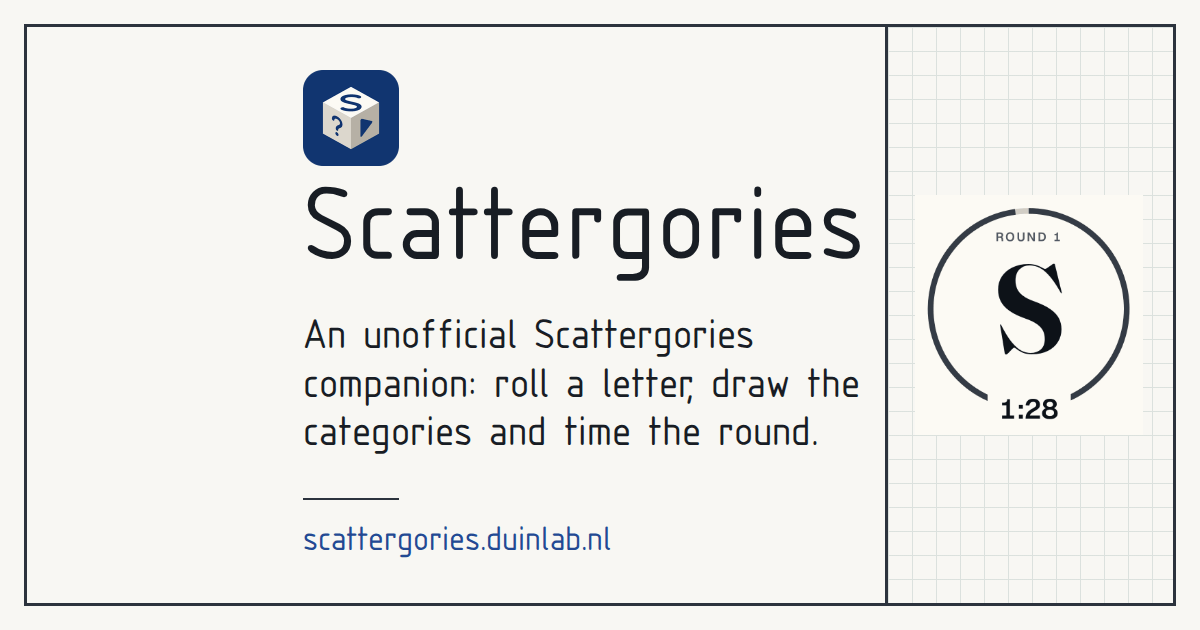
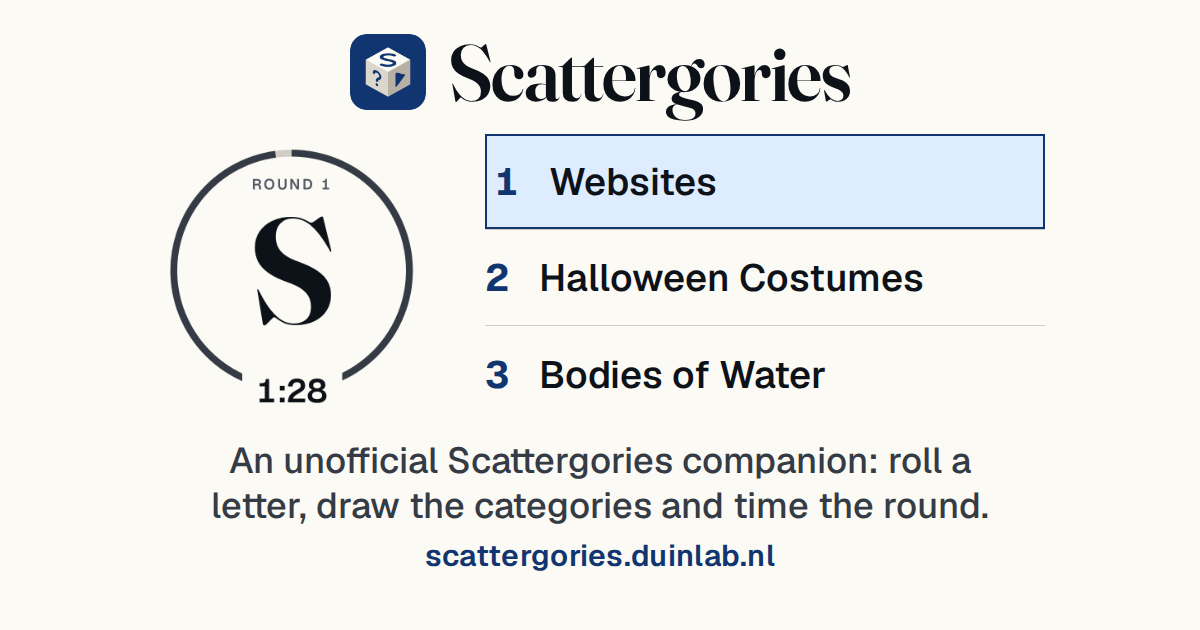
feat: draw the social card from a live round (#160)
* feat(og): draw the social card from a live round

- docs/og-card.html is the source; just og-card renders public/og.png, just og-card-capture re-captures the dial at 3x in light and dark
- the dial capture moves out of the README shots spec; og-dial.png goes
- og:image:alt and the README card section describe the new card

* fix(ci): skip node_modules links in the offline link check

docs/og-card.html loads its fonts from node_modules, which the git hooks job does not install, so lychee reported them as missing files.

---------

diff --git a/docs/og-card.html b/docs/og-card.html
@@ -1,0 +1,54 @@
+<!doctype html>
+<!-- spell-checker: ignore wght opsz -->
+<!-- Source of public/og.png (1200x630). `just og-card` renders it; the dial in docs/og-card/ comes from
+     `just og-card-capture`. The body class picks the theme: light (default) or dark. Colours are the app's tokens
+     (src/styles/tokens.css); the category rows are drawn here in the app's checklist style from its default deck. -->
+<html lang="en">
+<head>
+<meta charset="utf-8" />
+<title>Scattergories social card</title>
+<style>
+  @font-face { font-family: "Fraunces"; font-weight: 100 900;
+    src: url("../node_modules/@fontsource-variable/fraunces/files/fraunces-latin-opsz-normal.woff2") format("woff2"); }
+  @font-face { font-family: "Geist"; font-weight: 100 900;
+    src: url("../node_modules/@fontsource-variable/geist/files/geist-latin-wght-normal.woff2") format("woff2"); }
+  body { --bg: oklch(98.5% 0.008 85); --ink: oklch(18% 0.015 255); --ink2: oklch(35% 0.02 255); --rule: oklch(85% 0.012 85);
+    --accent: oklch(34% 0.11 260); --accent-soft: oklch(94% 0.035 260); }
+  body.dark { --bg: oklch(14% 0.015 70); --ink: oklch(93% 0.011 85); --ink2: oklch(80% 0.013 85); --rule: oklch(32% 0.015 70);
+    --accent: oklch(76% 0.11 258); --accent-soft: oklch(33% 0.09 258 / 0.6); }
+  * { box-sizing: border-box; margin: 0; }
+  html, body { width: 1200px; height: 630px; overflow: hidden; }
+  body { position: relative; background: var(--bg); color: var(--ink); font-family: "Geist", sans-serif; }
+  .brand { position: absolute; top: 32px; left: 0; right: 0; display: flex; align-items: center; justify-content: center; gap: 22px; }
+  .brand img { width: 76px; height: 76px; border-radius: 17px; }
+  .brand b { font-family: "Fraunces", serif; font-variation-settings: "opsz" 144; font-size: 80px; font-weight: 600; letter-spacing: -0.02em; line-height: 1; }
+  .board { position: absolute; top: 134px; left: 90px; right: 90px; height: 288px; display: flex; align-items: center; justify-content: center; gap: 56px; }
+  .dark .board { flex-direction: row-reverse; }
+  .dial { height: 288px; display: block; }
+  .dial-dark { display: none; }
+  .dark .dial-light { display: none; }
+  .dark .dial-dark { display: block; }
+  ol { list-style: none; padding: 0; width: 560px; }
+  li { display: grid; grid-template-columns: 54px 1fr; align-items: center; height: 96px; border-bottom: 1px solid var(--rule); font-size: 38px; font-weight: 550; }
+  li:last-child { border-bottom: 0; }
+  li span { color: var(--accent); font-weight: 700; font-variant-numeric: tabular-nums; }
+  li.pinned { background: var(--accent-soft); box-shadow: inset 0 0 0 2px var(--accent); padding-left: 10px; }
+  .line { position: absolute; top: 438px; left: 60px; right: 60px; text-align: center; font-size: 36px; font-weight: 500; line-height: 1.25; color: var(--ink2); text-wrap: balance; }
+  .addr { position: absolute; top: 536px; left: 0; right: 0; text-align: center; font-size: 30px; font-weight: 600; letter-spacing: 0.01em; color: var(--accent); }
+</style>
+</head>
+<body>
+<div class="brand"><img src="../public/icons/icon-512.png" alt="" /><b>Scattergories</b></div>
+<div class="board">
+  <img class="dial dial-light" src="og-card/dial-light.png" alt="" />
+  <img class="dial dial-dark" src="og-card/dial-dark.png" alt="" />
+  <ol>
+    <li class="pinned"><span>1</span>Websites</li>
+    <li><span>2</span>Halloween Costumes</li>
+    <li><span>3</span>Bodies of Water</li>
+  </ol>
+</div>
+<p class="line">An unofficial Scattergories companion: roll a letter, draw the categories and time the round.</p>
+<span class="addr">scattergories.duinlab.nl</span>
+</body>
+</html>

diff --git a/tests/shots/og-card.spec.ts b/tests/shots/og-card.spec.ts
@@ -1,0 +1,37 @@
+import { test } from "../fixtures";
+
+// The live dial of the social card (docs/og-card.html), captured at 3x in both themes so the thin
+// ring and the readout stay sharp. `just og-card-capture` writes docs/og-card/dial-<scheme>.png.
+for (const colorScheme of ["light", "dark"] as const) {
+  test.describe(`social card dial, ${colorScheme}`, () => {
+    test.use({ viewport: { width: 390, height: 844 }, deviceScaleFactor: 3, colorScheme });
+
+    test("captures the dial of a running round", async ({ app, page }) => {
+      await page.addInitScript(() => {
+        let seed = 7;
+        Math.random = () => {
+          seed = (seed * 16807) % 2147483647;
+          return (seed - 1) / 2147483646;
+        };
+      });
+      await page.clock.install();
+      await page.reload();
+      await app.waitUntilReady();
+      await page.evaluate(() => document.fonts.ready);
+      await app.startRound();
+      await page.clock.runFor(6500);
+      await app.expectRunning();
+      const box = await page.locator(".playmat__hero").boundingBox();
+      if (!box) {
+        throw new Error("the dial is not on the page");
+      }
+      // The readout hangs below the hero box, so the clip extends past it.
+      const readoutHang = 12;
+      await page.screenshot({
+        path: `docs/og-card/dial-${colorScheme}.png`,
+        animations: "disabled",
+        clip: { x: box.x, y: box.y, width: box.width, height: box.height + readoutHang },
+      });
+    });
+  });
+}

diff --git a/tests/shots/readme.spec.ts b/tests/shots/readme.spec.ts
@@ -31,38 +31,3 @@ for (const [name, viewport] of [
     });
   }
 }
-
-// The social card's visual (docs/screenshots/og-dial.png): the whole letter dial, ring and
-// timer, at 3x so the thin ring and the readout stay sharp when the card is shown small.
-test.describe("README social card dial", () => {
-  test.use({ viewport: { width: 390, height: 844 }, deviceScaleFactor: 3, colorScheme: "light" });
-
-  test("captures the dial of a running round", async ({ app, page }) => {
-    await page.addInitScript(() => {
-      let seed = 7;
-      Math.random = () => {
-        seed = (seed * 16807) % 2147483647;
-        return (seed - 1) / 2147483646;
-      };
-    });
-    await page.clock.install();
-    await page.reload();
-    await app.waitUntilReady();
-    await page.evaluate(() => document.fonts.ready);
-    await app.startRound();
-    await page.clock.runFor(6500);
-    await app.expectRunning();
-    const box = await page.locator(".playmat__hero").boundingBox();
-    if (!box) {
-      throw new Error("the dial is not on the page");
-    }
-    // The readout hangs below the hero box: extend the capture so it fits, with no other margin so the
-    // ring fills the card's narrow panel.
-    const readoutHang = 12;
-    await page.screenshot({
-      path: "docs/screenshots/og-dial.png",
-      animations: "disabled",
-      clip: { x: box.x, y: box.y, width: box.width, height: box.height + readoutHang },
-    });
-  });
-});

diff --git a/index.html b/index.html
@@ -23,7 +23,7 @@
     <meta property="og:image" content="https://scattergories.duinlab.nl/og.png" />
     <meta property="og:image:width" content="1200" />
     <meta property="og:image:height" content="630" />
-    <meta property="og:image:alt" content="Scattergories: an unofficial companion that rolls a letter, draws the categories and times the round, at scattergories.duinlab.nl, with the app icon, a letter cube, above the name and beside the round's whole dial: its letter inside the timer ring, at 1:28." />
+    <meta property="og:image:alt" content="Scattergories: an unofficial companion that rolls a letter, draws the categories and times the round. The card shows a round in progress: the letter S in the timer ring at 1:28, beside the categories Websites, Halloween Costumes and Bodies of Water." />
     <meta name="twitter:card" content="summary_large_image" />
     <title>Scattergories</title>
   </head>

diff --git a/README.md b/README.md
@@ -44,16 +44,17 @@ Open **How to play** to find links to both pages. Their source is in
 
 ## Social card
 
-`public/og.png` is the 1200x630 card shown when the link is shared. It is made with the generator in
-[my site repo](https://github.com/simonvanlierde/simonvanlierde.github.io/tree/main/scripts/social-card)
-(needs Docker). The mark above the name is the app icon; the visual is the round's whole dial, letter, ring and timer, captured at 3x by `tests/shots/readme.spec.ts` (`just ts-shots` rewrites `docs/screenshots/og-dial.png`). From a checkout of that repo, with this repo next to it:
+`public/og.png` is the 1200x630 card shown when the link is shared: the app icon and name, a live round's
+dial (letter, ring and timer, captured from the app at 3x) beside three drawn categories, and the
+README line. The source is [docs/og-card.html](docs/og-card.html), which uses the app's tokens and fonts.
 
 ```sh
-pnpm gen:card --mark ../scattergories/public/icons/icon-512.png \
-  --visual ../scattergories/docs/screenshots/og-dial.png --name "Scattergories" \
-  --line "An unofficial Scattergories companion: roll a letter, draw the categories and time the round." \
-  --domain scattergories.duinlab.nl --out ../scattergories/public/og.png --fit contain
+just og-card-capture   # capture the dial from the app, light and dark
+just og-card           # render docs/og-card.html to public/og.png
 ```
+
+`just og-card --option dark --out file.png` draws the dark version. The build adds the PNG's hash to the
+`og:image` URL, so a changed card gets a new URL.
 
 ## Links
 
